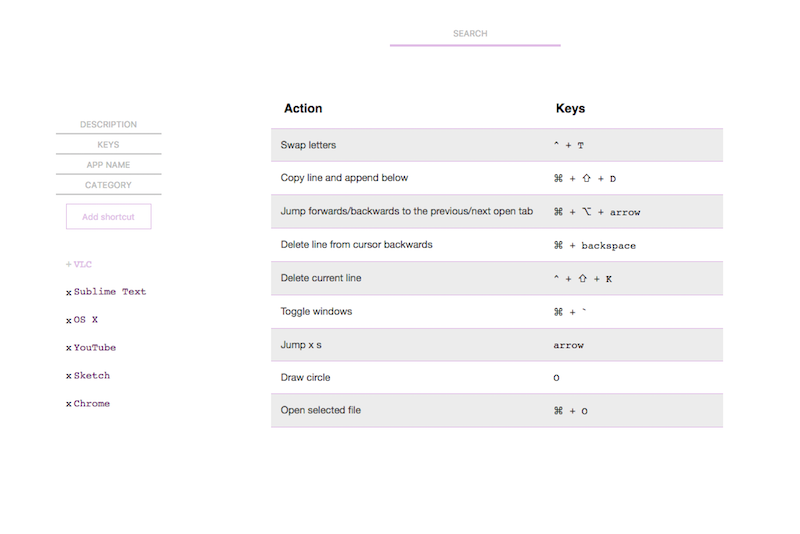
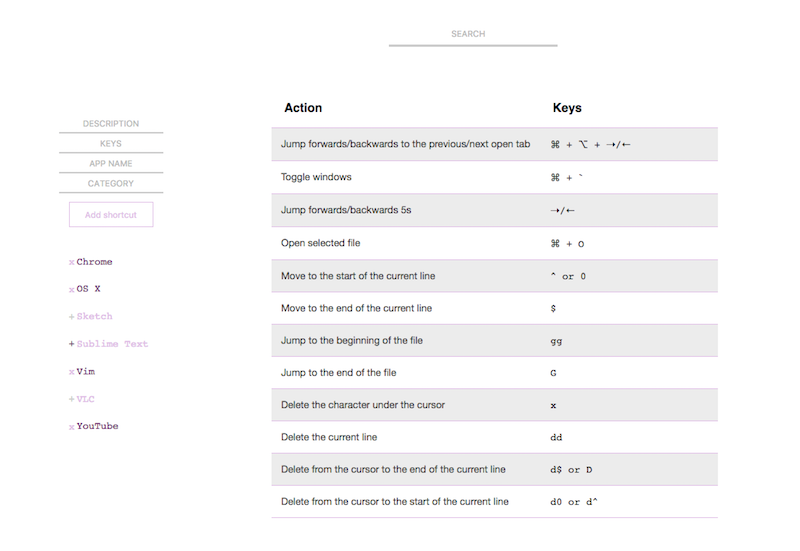
Update mock and readme

diff --git a/src/sc-mock.js b/src/sc-mock.js
@@ -1,69 +1,110 @@
 module.exports = {
-  tags: ['VLC', 'Sublime Text', 'OS X', 'YouTube', 'Sketch', "Chrome"],
-  shortcuts: [{
-    "key": "^ + T",
-    "action": "Swap letters",
-    "category": "",
-    "appName": "Sublime Text"
+  tags: ['Chrome', 'OS X', 'Sketch', 'Sublime Text', 'Vim', 'VLC', 'YouTube'],
+  shortcuts: [
+  {
+    key: "^ + T",
+    action: "Swap letters",
+    category: "",
+    appName: "Sublime Text"
   }, {
-    "key": "⌘ + ⇧ + D",
-    "action": "Copy line and append below",
-    "category": "",
-    "appName": "Sublime Text"
+    key: "⌘ + ⇧ + D",
+    action: "Copy line and append below",
+    category: "",
+    appName: "Sublime Text"
   }, {
-    "key": "⌘ + ⌥  + arrow",
-    "action": "Jump forwards/backwards to the previous/next open tab",
-    "category": "",
-    "appName": "Chrome"
+    key: "⌘ + ⌥  +  ➝/←",
+    action: "Jump forwards/backwards to the previous/next open tab",
+    category: "",
+    appName: "Chrome"
   }, {
-    "key": "⌘ + backspace",
-    "action": "Delete line from cursor backwards",
-    "category": "editing",
-    "appName": "Sublime Text"
+    key: "⌘ + backspace",
+    action: "Delete line from cursor backwards",
+    category: "editing",
+    appName: "Sublime Text"
   }, {
-    "key": "^ + ⇧ + K",
-    "action": "Delete current line",
-    "category": "editing",
-    "appName": "Sublime Text"
+    key: "^ + ⇧ + K",
+    action: "Delete current line",
+    category: "editing",
+    appName: "Sublime Text"
   }, {
-    "key": "^ + ⌘ + Arrow",
-    "action": "Jump forwards/backwards 3s",
-    "category": "playback",
-    "appName": "VLC"
+    key: "^ + ⌘ + ➝/←",
+    action: "Jump forwards/backwards 3s",
+    category: "playback",
+    appName: "VLC"
   }, {
-    "key": "⌘ + ⌥ + Arrow",
-    "action": "Jump forwards/backwards 10s",
-    "category": "playback",
-    "appName": "VLC"
+    key: "⌘ + ⌥ + ➝/←",
+    action: "Jump forwards/backwards 10s",
+    category: "playback",
+    appName: "VLC"
   }, {
-    "key": "⌘ + ⇧ + Arrow",
-    "action": "Jump forwards/backwards 1min",
-    "category": "playback",
-    "appName": "VLC"
+    key: "⌘ + ⇧ + ➝/←",
+    action: "Jump forwards/backwards 1min",
+    category: "playback",
+    appName: "VLC"
   }, {
-    "key": "^ + T",
-    "action": "Swap letters",
-    "category": "",
-    "appName": "VLC",
+    key: "^ + T",
+    action: "Swap letters",
+    category: "",
+    appName: "VLC",
   }, {
-    "key": "⌘ + `",
-    "action": "Toggle windows",
-    "category": "",
-    "appName": "OS X"
+    key: "⌘ + `",
+    action: "Toggle windows",
+    category: "",
+    appName: "OS X"
   }, {
-    "key": "arrow",
-    "action": "Jump x s",
-    "category": "",
-    "appName": "YouTube"
-  },{
-    "key": "O",
-    "action": "Draw circle",
-    "category": "",
-    "appName": "Sketch"
-  },{
-    "key": "⌘ + O",
-    "action": "Open selected file",
-    "category": "Finder",
-    "appName": "OS X"
+    key: "➝/←",
+    action: "Jump forwards/backwards 5s",
+    category: "",
+    appName: "YouTube"
+  }, {
+    key: "O",
+    action: "Draw circle",
+    category: "",
+    appName: "Sketch"
+  }, {
+    key: "⌘ + O",
+    action: "Open selected file",
+    category: "Finder",
+    appName: "OS X"
+  }, {
+    key: "^ or 0",
+    action: "Move to the start of the current line",
+    category: "moving",
+    appName: "Vim"
+  }, {
+    key: "$",
+    action: "Move to the end of the current line",
+    category: "",
+    appName: "Vim"
+  }, {
+    key: "gg",
+    action: "Jump to the beginning of the file",
+    category: "",
+    appName: "Vim"
+  }, {
+    key: "G",
+    action: "Jump to the end of the file",
+    category: "",
+    appName: "Vim"
+  }, {
+    key: "x",
+    action: "Delete the character under the cursor",
+    category: "",
+    appName: "Vim"
+  }, {
+    key: "dd",
+    action: "Delete the current line",
+    category: "",
+    appName: "Vim"
+  }, {
+    key: "d$ or D",
+    action: "Delete from the cursor to the end of the current line",
+    category: "",
+    appName: "Vim"
+  }, {
+    key: "d0 or d^",
+    action: " Delete from the cursor to the start of the current line",
+    category: "",
+    appName: "Vim"
   }]
 }

diff --git a/README.md b/README.md
@@ -1,4 +1,6 @@
-# Shortcuts - quick reference
+### Keyboard shortcuts + commands -- Quick reference
+
+I wish I could banish my trackpad
 
 ![App screenshot](https://raw.githubusercontent.com/MarieHoups/short-ref/master/public/short-ref-screenshot.png)
 
